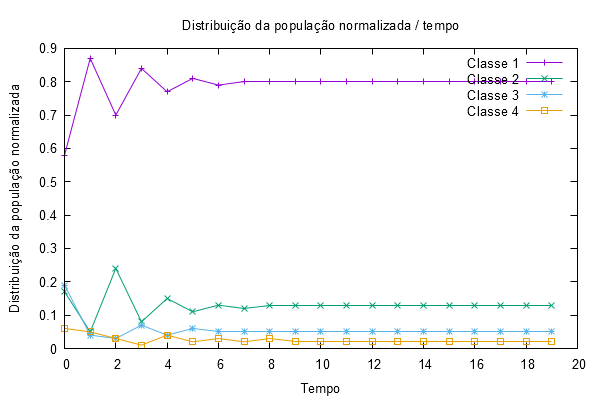
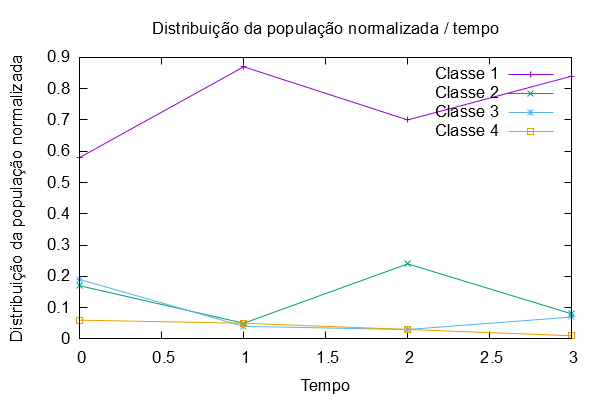
Impressão do ultimgeração inclusiver - Pedro & Ana

diff --git a/src/pedrin.java b/src/pedrin.java
@@ -1,0 +1,205 @@
+import java.util.Arrays;
+import java.util.Scanner;
+
+public class pedrin {
+    public static void main(String[] args) {
+        Scanner read = new Scanner(System.in);
+
+        double initialPopVec[] = {1000, 300, 330, 100};
+        //double[][] leslieMatrix = {{0.50,2.40,1,0},{0.5,0,0,0},{0,0.8,0,0},{0,0,0.5,0}};
+        double[][] leslieMatrix = {{0, 3, 3.17, 0.39}, {0.11, 0, 0, 0}, {0, 0.29, 0, 0}, {0, 0, 0.33, 0}};
+
+        print1D(initialPopVec);
+        printMatrix(leslieMatrix);
+
+        int generationNum, t = 0;
+
+
+        System.out.println("Insert the generations' number to be estimated: ");
+
+        do {
+            generationNum = read.nextInt();
+        } while (generationNum <= 0);
+
+        double[] popVec = new double[leslieMatrix.length];
+        double[] normalizedPopVec = new double[popVec.length];
+
+        double[][] distributionMatrix = new double[generationNum+1][leslieMatrix.length];
+        double[][] normDistMatrix = new double[generationNum+1][leslieMatrix.length];
+
+        double[] popDim = new double[generationNum+1];
+        double[] rateVariation = new double[generationNum+1];
+
+        double dim, rate;
+
+        for(int time = 0; time <= generationNum; time++) {
+
+            //POPULATION DISTRIBUTION
+            fillPopulationDistribution(initialPopVec,popVec,distributionMatrix,leslieMatrix,time);
+
+            //NORMALIZATION
+            fillNormalizedPopVec(normalizedPopVec,popVec,normDistMatrix,time);
+
+            //DIMENSION
+            dim=getTotalPopulation(popVec);
+            fillArray(dim, time, popDim);
+
+            //RATE
+            if(time >= 1) {
+                rate = getRateOfChangeOverTheYears(time, popDim);
+                fillArray(rate, time-1, rateVariation);
+            }
+
+
+        }
+
+        //RATE
+        /*
+        while(t+1<generationNum) {
+            rate = getRateOfChangeOverTheYears(t, popDim);
+            fillArray(rate, t, rateVariation);
+            t++;
+        }
+         */
+
+
+        for (int i = 0; i <= generationNum; i++) {
+            printGenerationInfo(i,generationNum,distributionMatrix,normDistMatrix,popDim,rateVariation);
+        }
+
+
+        //APAGAR ANTES DE ENTREGAR
+        System.out.println("Population Dimension Array:");
+        System.out.println(Arrays.toString(popDim));
+
+
+        //APAGAR ANTES DE ENTREGAR
+        System.out.println("Rate Variation Array:");
+        System.out.println(Arrays.toString(rateVariation));
+
+        System.out.println("Distribution Matrix:");
+        print2D(distributionMatrix);
+        System.out.println();
+
+        System.out.println("Normalized Distribution Matrix:");
+        print2D(normDistMatrix);
+
+
+    }
+
+
+    public static void fillPopulationDistribution(double initialPopVec[], double[] popVec, double[][] distributionMatrix, double[][] leslieMatrix, int time) {
+        double mult = 0;
+        double[] previousPopVec = new double[popVec.length];
+
+        if (time == 0) {
+            for (int i = 0; i < initialPopVec.length; i++) {
+                popVec[i] = initialPopVec[i];
+            }
+            fillMatrix(distributionMatrix,time,popVec);
+        } else {
+            fillPreviousPopVec(previousPopVec,popVec);
+            for (int line = 0; line < leslieMatrix.length; line++) {
+                for (int column = 0; column < leslieMatrix[line].length; column++) {
+                    mult = mult + leslieMatrix[line][column] * previousPopVec[column];
+                }
+                popVec[line] = mult;
+                mult = 0;
+            }
+            fillMatrix(distributionMatrix,time,popVec);
+        }
+    }
+    public static void fillPreviousPopVec(double[] previousPopVec, double[] popVec) {
+        for (int i = 0; i < popVec.length; i++) {
+            previousPopVec[i] = popVec[i];
+        }
+    }
+    public static double getTotalPopulation(double[] popVec) {
+        double sum = 0;
+
+        for (int i = 0; i < popVec.length; i++) {
+            sum += popVec[i];
+        }
+        return sum;
+    }
+    public static void fillNormalizedPopVec(double[] normalizedPopVec, double[] popVec,double[][] normDistMatrix, int time) {
+        double totalPopulation = getTotalPopulation(popVec);
+
+        for (int i = 0; i < popVec.length; i++) {
+            normalizedPopVec[i] = popVec[i] / totalPopulation;
+        }
+        fillMatrix(normDistMatrix,time,normalizedPopVec);
+    }
+    /* -------------------------------- APAGAR ANTES DE ENTREGAR ------------------------------------------------------*/
+    public static void printMatrix(double[][] array) {
+        for (int line = 0; line < array.length; line++) {
+            for (int column = 0; column < array[line].length; column++) {
+                System.out.print(array[line][column] + " ");
+            }
+            System.out.println();
+        }
+        System.out.println();
+    }
+    public static void printPopDistribution(double[][] matrix, int time) {
+        for (int line = 0; line < matrix.length; line++) {
+            for (int column = 0; column < matrix[line].length; column++) {
+                if(line == time) {
+                    System.out.print("- Class " + column + ": ");
+                    System.out.printf("%.3f%n", matrix[line][column]);
+                }
+            }
+        }
+        System.out.println();
+    }
+
+    /*-----------------------object = FILL POP DIMENSION AND RATE VARIATION OVER THE YEARS----------------------------*/
+    public static void fillArray(double object, int time, double[] array) {
+        array[time] = object;
+    }
+    public static void fillMatrix(double[][] distributionMatrix, int time, double[] popVec) {
+        for (int line = time; line < (time+1); line++) {
+            for (int column = 0; column < popVec.length; column++) {
+                distributionMatrix[line][column] = popVec[column];
+            }
+        }
+    }
+    public static double getRateOfChangeOverTheYears(int time, double [] popDim) {
+        double nowGeneration = popDim[time-1];
+        double nextGeneration = popDim[time];
+
+        double quocient = nextGeneration/nowGeneration;
+
+        return quocient;
+    }
+    public static void printGenerationInfo(int time, int generationNum, double[][] distributionMatrix, double[][] normDistMatrix, double[] popDim, double[] rateVariation) {
+        System.out.println("GENERATION " + time);
+        System.out.println("Population Distribution:");
+        printPopDistribution(distributionMatrix, time);
+        System.out.println("Normalized Population Distribution:");
+        printPopDistribution(normDistMatrix, time);
+        System.out.println("Population Dimension: " + popDim[time]);
+        if(time != generationNum) {
+            System.out.println("Rate Variation between generation " + time + " and generation " + (time + 1) + ": " + rateVariation[time]);
+        } else {
+            System.out.println("For this generation, there is no Rate Variation.");
+        }
+        System.out.println();
+    }
+
+    //APAGAR ANTES DE ENTREGAR
+    public static void print2D(double[][] array) {
+        for (int line = 0; line < array.length; line++) {
+            for (int column = 0; column < array[line].length; column++) {
+                System.out.print(array[line][column] + " ");
+            }
+            System.out.println();
+        }
+    }
+    //APAGAR ANTES DE ENTREGAR
+    public static void print1D(double[] array) {
+        for (int i = 0; i < array.length; i++) {
+            System.out.println(array[i]);
+        }
+    }
+
+}
